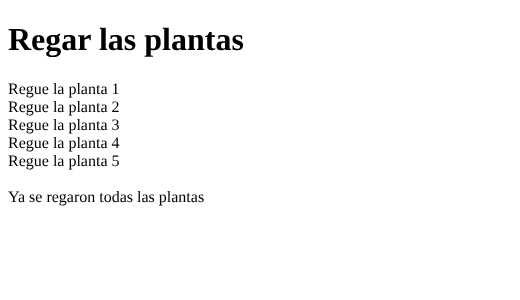
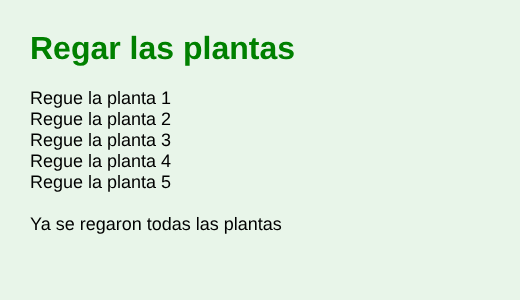
Agregar CSS básico a los ejercicios y actualizar capturas del PDF
Claude-Session: https://claude.ai/code/session_01DiNvSgpbYgJCivQSGGYkaJ

Changed region(s): [[0.0, 0.27, 0.4, 0.69], [0.0, 0.09, 0.5846, 0.24], [0.0615, 0.72, 0.5538, 0.78]]

diff --git a/ContarFrutas.php b/ContarFrutas.php
@@ -3,9 +3,23 @@
 <head>
     <meta charset="UTF-8">
     <title>Contar frutas</title>
+    <style>
+        body {
+            font-family: Arial, sans-serif;
+            background-color: #fff3e0;
+            margin: 30px;
+        }
+        h1 {
+            color: darkorange;
+        }
+        p {
+            font-size: 18px;
+        }
+    </style>
 </head>
 <body>
     <h1>Contar frutas en la canasta</h1>
+    <p>
     <?php
     $frutas = 6;
     $contador = 1;
@@ -17,5 +31,6 @@
 
     echo "<br>Total de frutas: $frutas";
     ?>
+    </p>
 </body>
 </html>

diff --git a/RegarPlantas.php b/RegarPlantas.php
@@ -3,9 +3,23 @@
 <head>
     <meta charset="UTF-8">
     <title>Regar las plantas</title>
+    <style>
+        body {
+            font-family: Arial, sans-serif;
+            background-color: #e8f5e9;
+            margin: 30px;
+        }
+        h1 {
+            color: green;
+        }
+        p {
+            font-size: 18px;
+        }
+    </style>
 </head>
 <body>
     <h1>Regar las plantas</h1>
+    <p>
     <?php
     $plantas = 5;
     $i = 1;
@@ -17,5 +31,6 @@
 
     echo "<br>Ya se regaron todas las plantas";
     ?>
+    </p>
 </body>
 </html>
